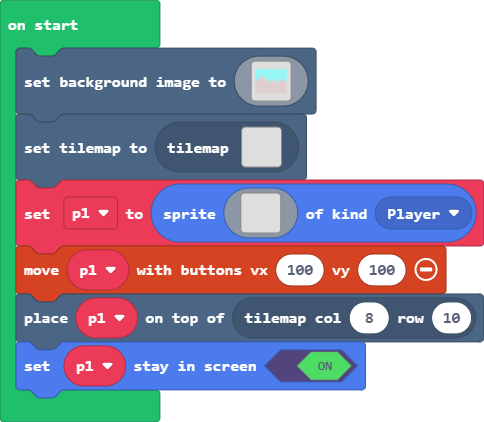
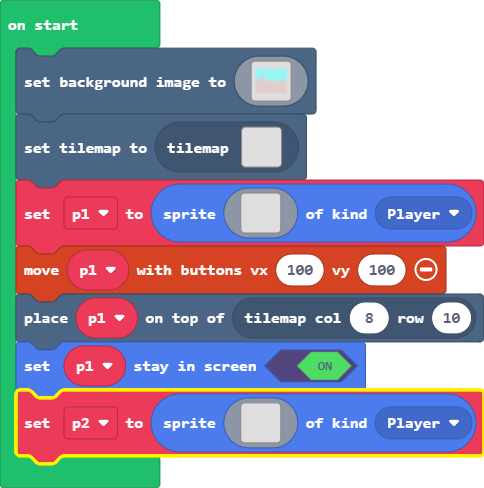
Update main.blocks, main.ts

diff --git a/main.ts b/main.ts
@@ -142,3 +142,21 @@ let p1 = sprites.create(img`
 controller.moveSprite(p1, 100, 100)
 tiles.placeOnTile(p1, tiles.getTileLocation(8, 10))
 p1.setStayInScreen(true)
+let p2 = sprites.create(img`
+    . . . . . . . . . . . . . . . . 
+    . . . . . . . . . . . . . . . . 
+    . . . . . . . . . . . . . . . . 
+    . . . . . . . . . . . . . . . . 
+    . . . . . . . . . . . . . . . . 
+    . . . . . . . . . . . . . . . . 
+    . . . . . . . . . . . . . . . . 
+    . . . . . . . . . . . . . . . . 
+    . . . . . . . . . . . . . . . . 
+    . . . . . . . . . . . . . . . . 
+    . . . . . . . . . . . . . . . . 
+    . . . . . . . . . . . . . . . . 
+    . . . . . . . . . . . . . . . . 
+    . . . . . . . . . . . . . . . . 
+    . . . . . . . . . . . . . . . . 
+    . . . . . . . . . . . . . . . . 
+    `, SpriteKind.Player)
